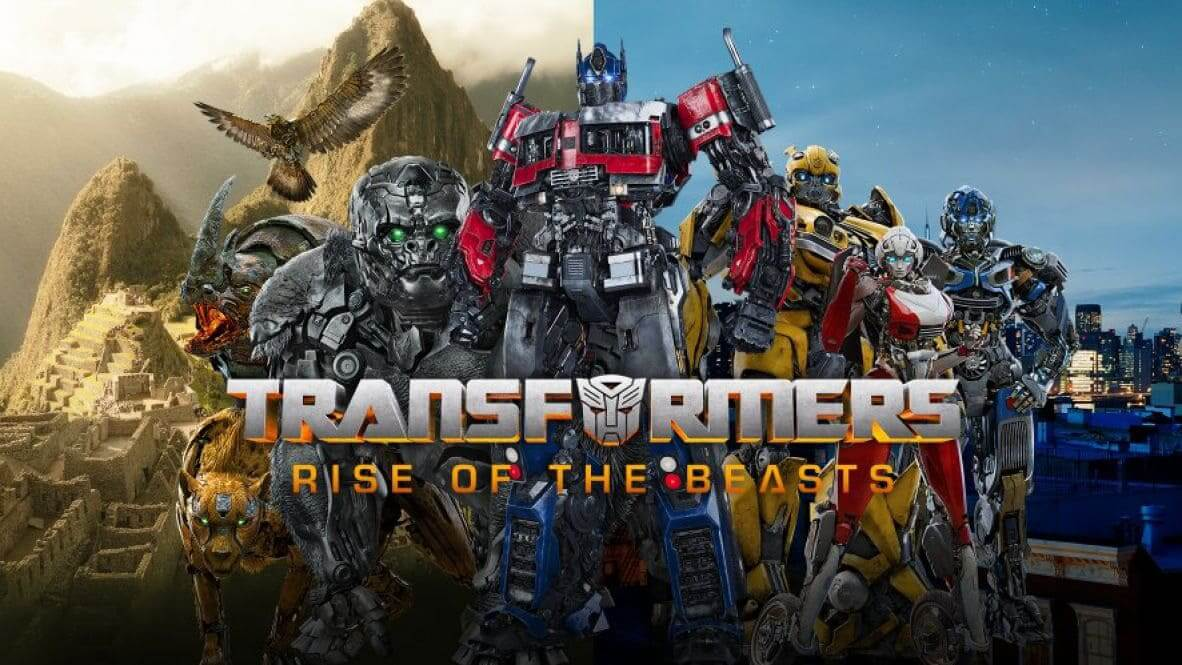
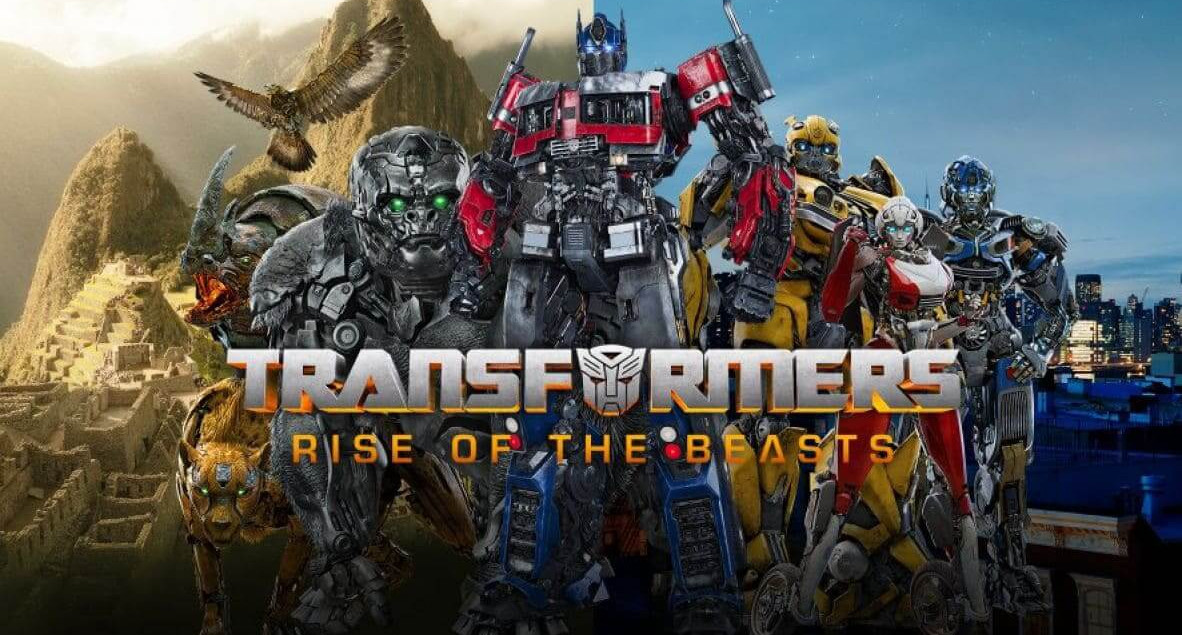
Atualização
imagem e css modificados...

diff --git a/src/css/style.css b/src/css/style.css
@@ -14,7 +14,7 @@ body{
 }
 
 header{
-    height: 50vh;
+    height: 80vh;
     border-radius: 0 0 20px 20px;
     background: url('../imagens/banner.jpg') top center no-repeat fixed;
     background-size: cover;
@@ -43,7 +43,7 @@ p{
     padding:4vw 0;
     line-height: 4.8vw;
     text-align: justify;
-    font-size: 1.9vw;
+    font-size: 2vw;
     font-weight: 700;
 }
 
